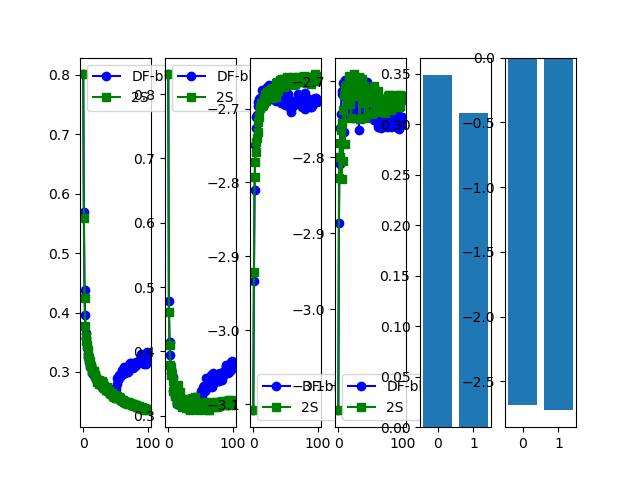
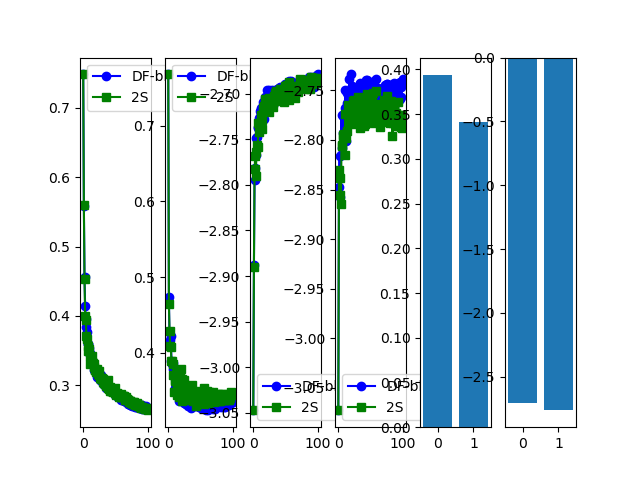
1020 including hybrid option

diff --git a/blockQP.py b/blockQP.py
@@ -151,6 +151,8 @@ def learnEdgeProbs_simple(train_data, validate_data, test_data, f_save, f_time, 
                         print(biased_probs_pred)
                         raise ValueError('loss is nan!')
                 elif training_method == "decision-focused" or training_method == "block-decision-focused":
+                    batch_loss += (-def_obj)
+                elif training_method == "hybrid":
                     batch_loss += ((-def_obj) * df_weight + loss[0] * ts_weight)
                 else:
                     raise TypeError("Not Implemented Method")
@@ -173,6 +175,8 @@ def learnEdgeProbs_simple(train_data, validate_data, test_data, f_save, f_time, 
                 if training_method == "two-stage":
                     scheduler.step(np.mean(loss_list))
                 elif training_method == "decision-focused" or training_method == "block-decision-focused":
+                    scheduler.step(-np.mean(def_obj_list))
+                elif training_method == 'hybrid':
                     scheduler.step(-np.mean(def_obj_list) * df_weight + np.mean(loss_list) * ts_weight)
                 else:
                     raise TypeError("Not Implemented Method")
@@ -189,15 +193,6 @@ def learnEdgeProbs_simple(train_data, validate_data, test_data, f_save, f_time, 
 
             f_save.write("{}, {}, {}, {}, {}\n".format(mode, epoch, np.mean(loss_list), np.mean(def_obj_list), np.mean(simulated_def_obj_list)))
         
-        # validation_window = 3
-        # if epoch % 5 == 0 and epoch > 0:
-        #     if training_method == 'two-stage':
-        #         if validating_loss_list[-1] > validating_loss_list[-6]:
-        #             break
-        #     elif training_method == 'decision-focused' or training_method == 'block-decision-focused':
-        #         if validating_defender_utility_list[-1] < validating_defender_utility_list[-6]:
-        #             break
-
         time4 = time.time()
         cprint (("TIME FOR THIS EPOCH:", time4-time3),'red')
         time3 = time4
@@ -254,7 +249,7 @@ def getDefUtility(single_data, unbiased_probs_pred, path_model, omega=4, verbose
     # sample_distribution = pred_optimal_coverage.detach().numpy() + 0.1
     # sample_distribution /= sum(sample_distribution)
     sample_distribution = np.ones(m) / m
-    if training_method == 'block-decision-focused':
+    if training_method == 'block-decision-focused' or training_method == 'hybrid':
         cut_size = n // 2 # heuristic
         while True:
             edge_set = sorted(np.random.choice(range(m), size=cut_size, replace=False, p=sample_distribution))
@@ -372,7 +367,7 @@ if __name__=='__main__':
     learning_model_type = 'random_walk_distribution' if learning_mode == 0 else 'empirical_distribution'
 
     training_mode = args.method
-    method_dict = {0: 'two-stage', 1: 'decision-focused', 2: 'block-decision-focused'}
+    method_dict = {0: 'two-stage', 1: 'decision-focused', 2: 'block-decision-focused', '4': 'hybrid'} # 3 is reserved for new-block-df
     training_method = method_dict[training_mode]
 
     feature_size = args.feature_size

diff --git a/generate_bar.py b/generate_bar.py
@@ -152,8 +152,8 @@ if __name__=='__main__':
     
     bar_list = [(df_defu_mean,   ts_defu_mean,   init_defu_mean),
                 (df_defu_median, ts_defu_median, init_defu_median)]
-    print('loss:', bar_list[0])
-    print('defu:', bar_list[1])
+    print('mean (df, ts, init):', bar_list[0])
+    print('median (df, ts, init):', bar_list[1])
     
     save_filename = "barchart_{}_n{}_p{}_b{}_noise{}.png".format(filename, GRAPH_N_LOW, GRAPH_E_PROB_LOW, DEFENDER_BUDGET, NOISE_LEVEL)
     generatePlot(bar_list, labels, save_filename)

diff --git a/generate_fig4.py b/generate_fig4.py
@@ -88,8 +88,8 @@ def generatePlot(xy_list, bar_list, filename):
     #ax4 = fig.add_subplot(224)
     for i in range(len(xy_list)):
         x, y1, label1, y2, label2, title, ytitle = xy_list[i]
-        axs[i].plot(x, y1,'bo-' ,label=label1)
-        axs[i].plot(x, y2, 'gs-' ,label=label2)
+        axs[i].plot(x, y1,'bo-' ,label=label1, markersize=1)
+        axs[i].plot(x, y2, 'gs-' ,label=label2, markersize=1)
         
         axs[i].legend()
         # axs[i].title(title)
